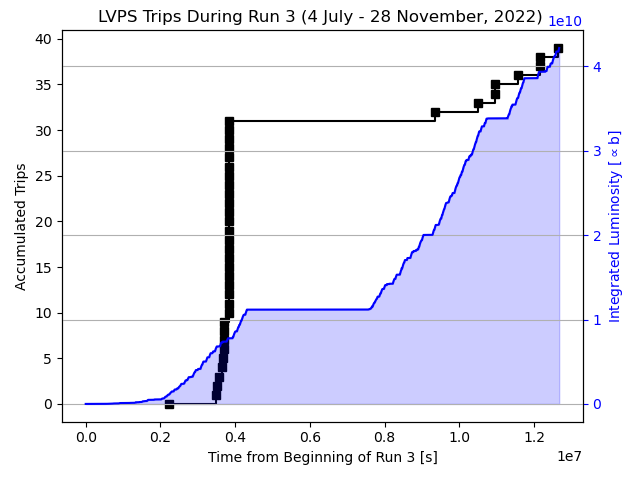
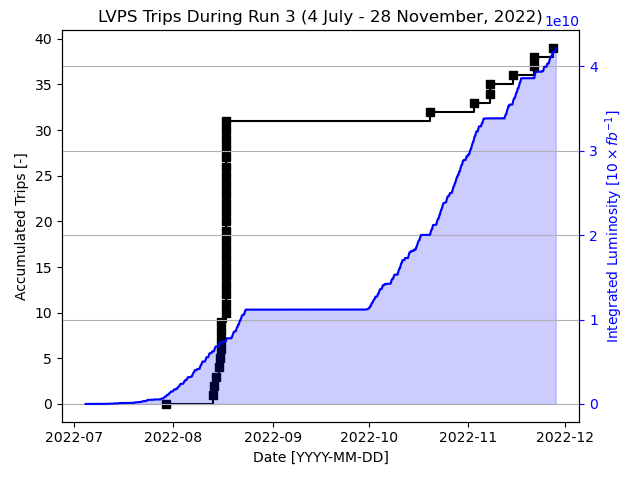
Luminosity plot now iwht YYYY-MM units

diff --git a/DCS/LumiData.py b/DCS/LumiData.py
@@ -2,10 +2,9 @@
 #
 # Author: Peter Camporeale
 # Contact: peter.thomas.camporeale@cern.ch
-# Date: 2.11.2022
+# Date: 29.03.2023
 #
-# Description: Get luminosity and MB current data for 
-#              processing
+# Description: Getluminosity data and show LVPS trips
 # Dependencies: NA 
 #
 ########################################################
@@ -162,25 +161,6 @@ def integratedLuminosity(enddate,L_inst):
     # print("L_int=%f"%L_int)
     return L_int
 
-def integratedLuminosityStep(enddate,L_inst):
-    
-    L_int=0
-    enddate = dateTime(enddate)
-    in_time_period = None
-    for i,lumi in enumerate(L_inst):
-
-        if t_real[i]>=startdate and t_real[i+1]<= enddate:
-            delta = t_real[i+1]-t_real[i]
-            delta_sec = delta.total_seconds()
-            L_int+=delta_sec*lumi
-        else:
-            in_time_period = i
-            break
-    delta = enddate-t_real[in_time_period]
-    delta_sec = delta.total_seconds()
-    L_int+=delta_sec*lumi
-    # print("L_int=%f"%L_int)
-    return L_int
 
 # Read in luminosity data to create a fresh list each time
 L_inst=[]
@@ -201,7 +181,6 @@ with open(new_output_file,"r") as fileREAD:
                 t_sec.append(delta.total_seconds())
                 t_real.append(time)
         # print(data)
-print(len(t_real))
 print("\nReading trip data files: ...")
 
 
@@ -210,6 +189,7 @@ file_pattern = "LvpsThresMonitor_ATLTILLV0"
 path="./"
 files = [f for f in listdir(path) if isfile(join(path, f)) and file_pattern in f]
 t_trip=[]
+t_trip_real=[]
 L_trip=[]
 for f in files:
     print(f)
@@ -235,24 +215,18 @@ for f in files:
             if dateTime(time) >= startdate and dateTime(time) <= enddate:
                 
                 t_trip.append((dateTime(time)-startdate).total_seconds())
+                t_trip_real.append(dateTime(time))
                 L_trip.append(integratedLuminosity(time,L_inst))
-                # print(integratedLuminosity(time,L_inst))
-            #     LVPS_list.append(LVPS)
-            #     # Make a blank array if first instance of the module/partition
-            #     if module+LVPS not in threshold_dict:
-            #         threshold_dict[module+LVPS] = []
-            #     # Append to the array in other cases
-            #     threshold_dict[module+LVPS].append([time,I_threshold])
 
-    # # Keep onlyunique values 
-    # LVPS_list = list(set(LVPS_list))
-    # for LVPS in LVPS_list:
-    #     LVPS_data.append([module,LVPS])
+# Order increasing (in case not already)
 L_trip.sort()
 t_trip.sort()
+t_trip_real.sort()
 print(L_trip)
 N_trip = [i for i in range(len(L_trip))]
 
+
+### Begin plotting (chosen to plot with real date )
 fig, ax = plt.subplots()
 plt.rcParams['figure.figsize'] = [8,6]
 
@@ -260,11 +234,14 @@ plt.rcParams['figure.figsize'] = [8,6]
 # Twin the x-axis twice to make independent y-axes.
 axes = [ax, ax.twinx()]
 
-axes[0].plot(t_trip,N_trip, drawstyle="steps-post",label="Accumulated Trips", linestyle='-', color="black", marker="s")
-axes[0].set_ylabel("Accumulated Trips", color="black")
+# Plot 1: Count number of trips in time
+axes[0].plot(t_trip_real,N_trip, drawstyle="steps-post",label="Accumulated Trips", linestyle='-', color="black", marker="s")
+axes[0].set_ylabel("Accumulated Trips [-]", color="black")
 axes[0].tick_params(axis='y', colors="black")
 
-#Integrated luminosoty v. time 
+#Plot 2: Integrated luminosoty v. time 
+
+# Need to calculate integrated luminosity for each tme (expensive to do using integratedLuminosity() for each step)
 L_plot=[]
 L_int=0
 for i in range(len(t_real)-1):
@@ -272,17 +249,15 @@ for i in range(len(t_real)-1):
     dt=delta.total_seconds()
     L_int+=dt*L_inst[i]
     L_plot.append(L_int)
-axes[1].plot(t_sec[0:-1],L_plot,color="blue")
-axes[1].set_ylabel("Integrated Luminosity [$\\propto$b]", color="blue")
+axes[1].plot(t_real[0:-1],L_plot,color="blue")
+axes[1].set_ylabel("Integrated Luminosity [$10\\times fb^{-1}$]", color="blue")
 axes[1].tick_params(axis='y', colors="blue")
 
 # Final plot frmatting
-axes[0].set_xlabel("Time from Beginning of Run 3 [s]")
+axes[0].set_xlabel("Date [YYYY-MM-DD]")
+
 d = np.zeros(len(L_plot))
-axes[1].fill_between(t_sec[0:-1],L_plot, where=L_plot>=d, interpolate=True, color='blue',alpha=0.2)
-
-
-
+axes[1].fill_between(t_real[0:-1],L_plot, where=L_plot>=d, interpolate=True, color='blue',alpha=0.2)
 
 plt.grid()
 # plt.xlim([0,5e10])
